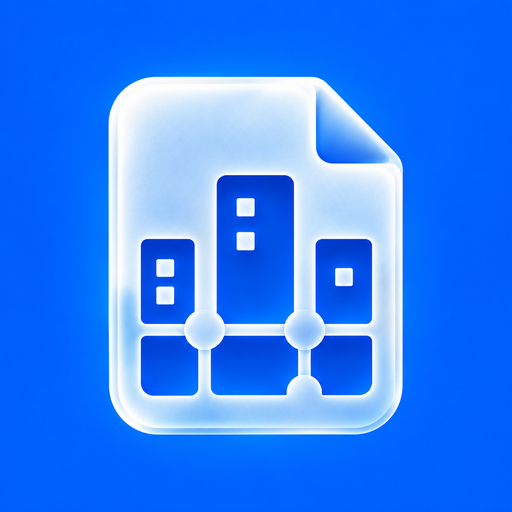
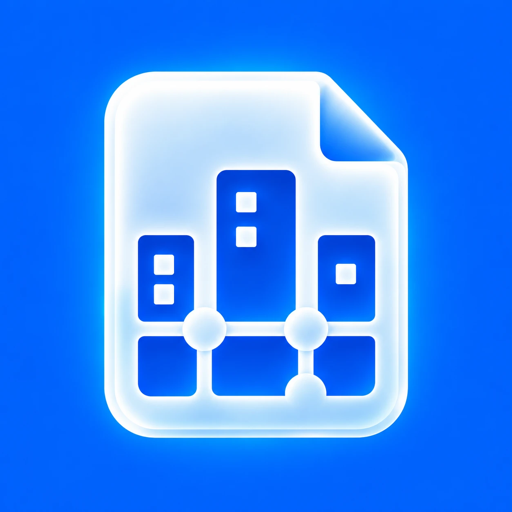
feat: новая иконка приложения — 6.41.4

Changed region(s): [[0.1875, 0.0938, 0.8438, 0.875], [0.4062, 0.3125, 0.7188, 0.75]]

diff --git a/app/web/static/js/whatsnew.js b/app/web/static/js/whatsnew.js
@@ -10,6 +10,12 @@ import { getPref, setPref } from './prefs.js';
 // Свежие версии сверху. Пишем по-человечески: что изменилось для ученика и родителя.
 export const CHANGES = [
   {
+    version: '6.41.4',
+    items: [
+      ['🎨', 'Новая иконка', 'Обновили иконку приложения — на вкладке браузера, на главном экране и в письмах.'],
+    ],
+  },
+  {
     version: '6.41.3',
     items: [
       ['🔐', 'Игры и ИИ-помощник без повторного PIN и ожидания', 'В приложении на iPhone разделы сайта больше не просят PIN второй раз, если приложение уже открыто.'],

diff --git a/app/__init__.py b/app/__init__.py
@@ -1,2 +1,2 @@
 # Версия приложения — показывается внизу меню настроек.
-__version__ = "6.41.3"
+__version__ = "6.41.4"
